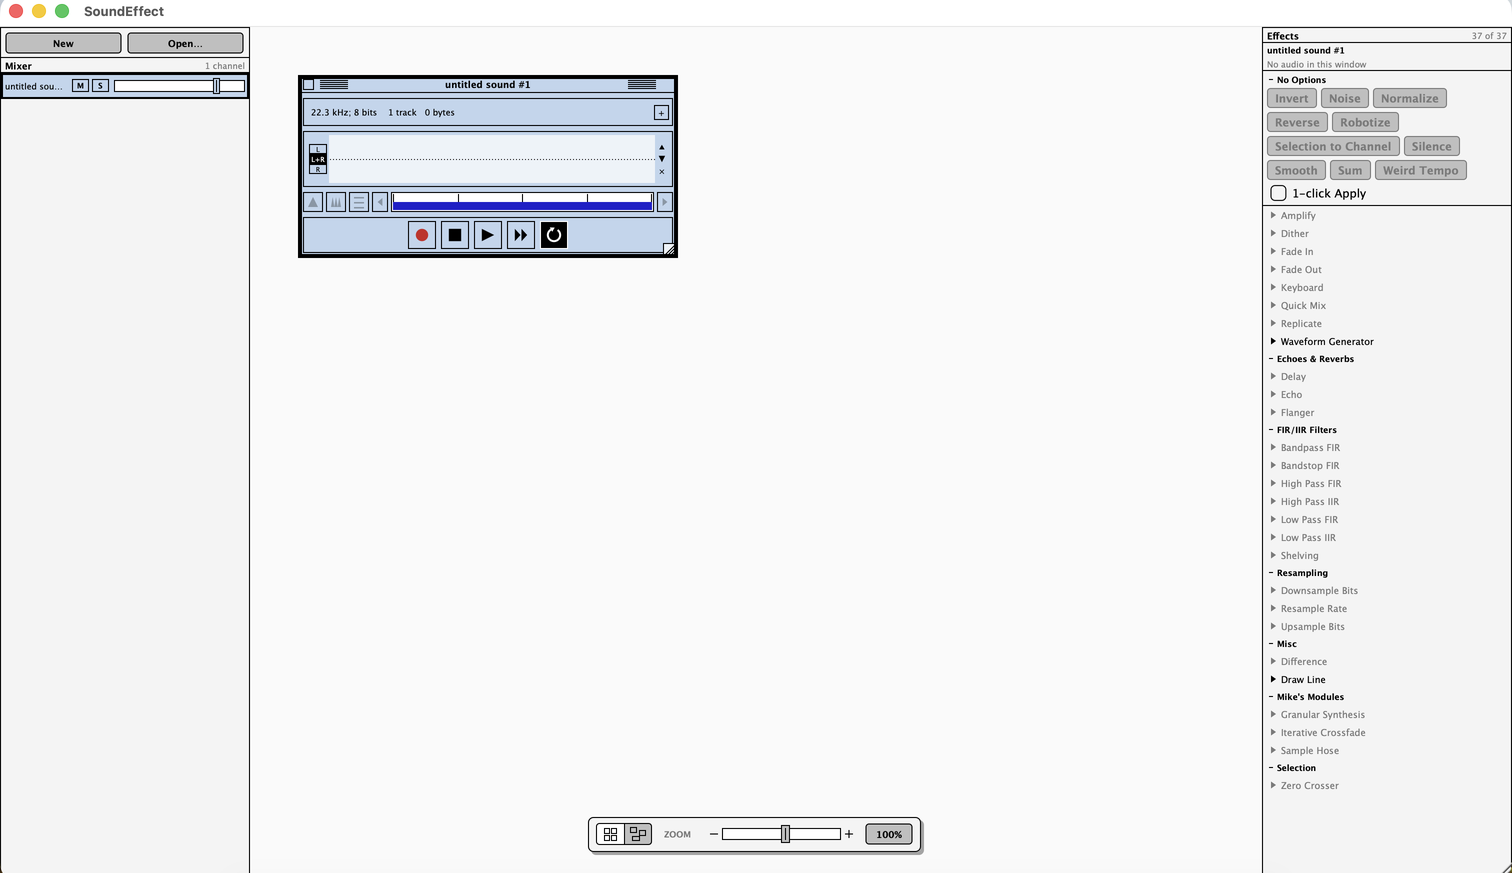
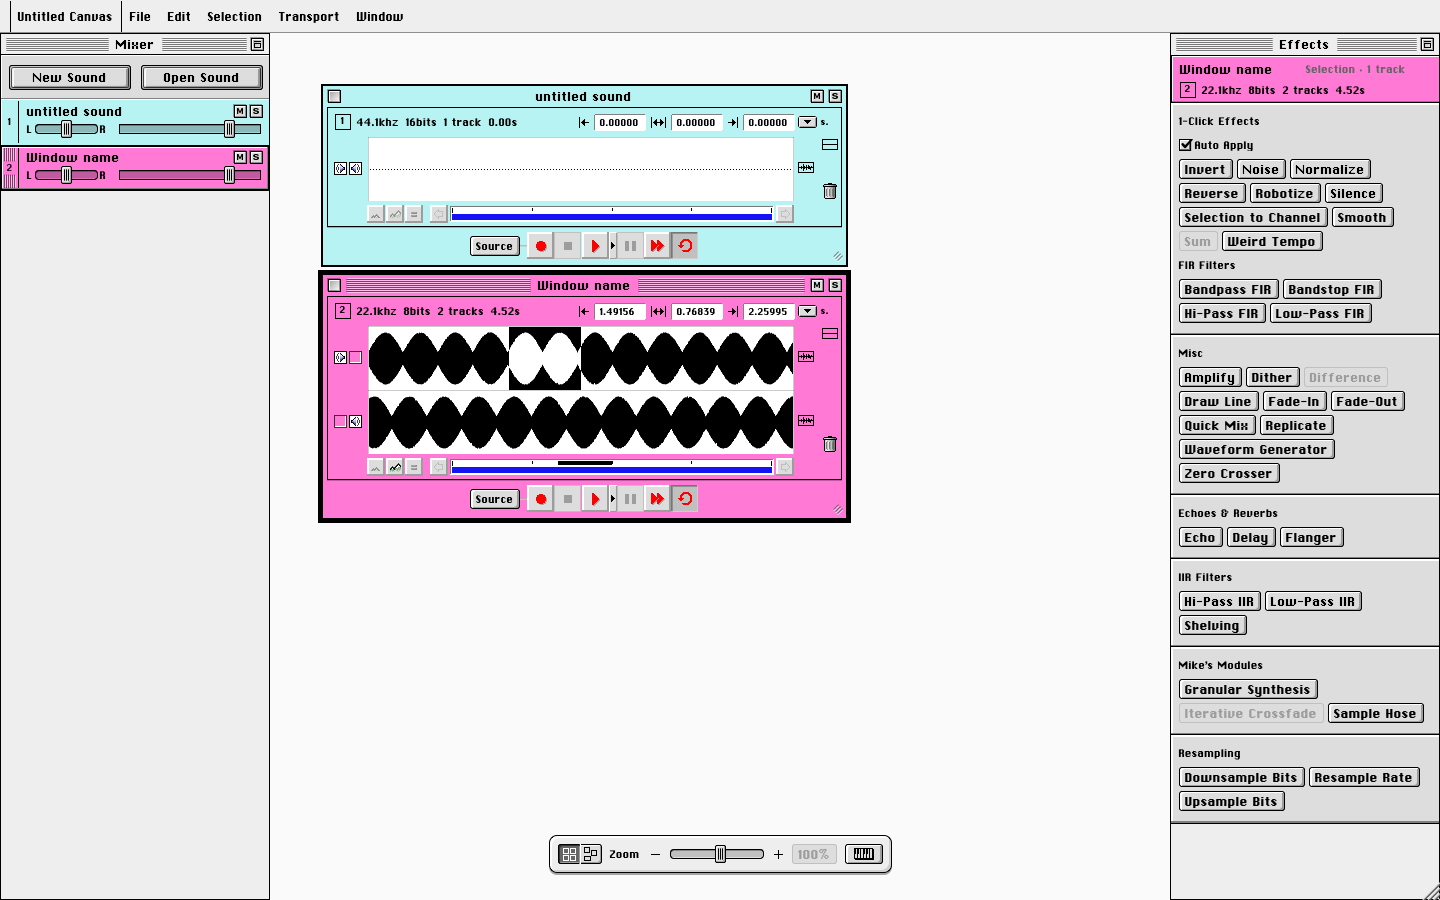
README: describe 0.4.0 — what works, what doesn't, the two settings files; a 0.4.0 screenshot

diff --git a/README.md b/README.md
@@ -77,56 +77,78 @@ xattr -dr com.apple.quarantine /Applications/SoundEffects.app
 
 ## What works today
 
-- **The canvas** — unbounded board, zoom 20–400% (⌘/Ctrl + wheel or pinch), pan
-  (`H`), snap-to-grid columns you can drag windows between, or **Mosaic** to turn
-  the grid off and place them freely.
-- **Open WAV and AIFF** (⌘O). A stereo file arrives as two tracks already routed
-  left and right.
-- **Multiple tracks per window**, each its own buffer with its own length, its own
-  `L` / `L+R` / `R` output routing, and its own loop — so tracks phase against
-  each other, and windows phase against each other. This is the point of the app.
-- **Transport per window** — play/pause (also `Space`), stop, 2× and loop.
-- **The mixer** — one strip per window, with mute, solo, a dB fader and a VU meter
-  sharing one trough on one scale.
-- **37 effects**, ported from the originals and checked against golden vectors
-  generated from the TypeScript reference — Amplify, Echo/Delay, Flanger, FIR and
-  IIR filters, Robotize, Granular Synthesis, Sample Hose, Weird Tempo, Zero
-  Crosser and the rest.
+- **The canvas.** An unbounded board, zoom 20–400% (⌘/Ctrl + wheel, pinch, ⌘0,
+  ⌘1), pan with a right-button drag or `H`, and a **grid** you drag windows
+  between, or a **free** canvas (`G`) to place them anywhere.
+- **The Mac OS 8 look.** Redrawn from a Figma design system and set in a
+  recreated Classic Chicago, with 24 colour themes. Each sound wears one on its
+  window and on its mixer strip.
+- **Multiple tracks per window.** Each track is its own buffer with its own
+  length, its own left/right speakers and its own loop, so tracks phase against
+  each other and windows phase against each other. This is the point of the
+  app. Drag tracks to reorder, add, duplicate (⌥-drag) or trash them.
+- **A transport per window.** Record, stop, pause, play (`Space`), 2× and loop.
+  Each window plays **Forward, Backward or Ping-pong** (`D`, or the strip on the
+  Play button) and switches mid-play without a glitch. A running loop follows the
+  selection as you change it.
+- **Recording.** The **Source** button (⌘⇧R) records from an audio input, from
+  the canvas (the main mix, or one window's own output) or, in a plugin, from
+  the DAW. With nothing selected, a take goes into new tracks; with a selection
+  over one or two tracks, it goes into the selection, as a punch-in or looping.
+  Conversion is Raw (lo-fi, the default) or Clean.
+- **The mixer.** One strip per window, in numbered slots (keys `1`…`0` select a
+  slot). Each strip has a fader with a stereo VU meter, balance, mute and solo,
+  and you drag strips to reorder them.
+- **37 effects** in a panel, ported from the originals and checked against golden
+  vectors generated from the TypeScript reference. They include Amplify,
+  Echo/Delay, Flanger, the FIR and IIR filters, Robotize, Granular Synthesis,
+  Sample Hose, Weird Tempo and Zero Crosser. Settings open in a tray, setups
+  (presets) are saved and recalled, and **Auto-apply** makes the one-click
+  effects instant.
+- **The original's editing.** Cut, copy, paste, duplicate, clear, crop, insert
+  silence, Leave Silence, Shift Sound, Select Exactly, Select Peak, Select Silence
+  and Set Loop, all from the in-app **Edit** and **Selection** menus. The
+  selection's start, length and end are live fields in seconds, ms or samples.
+- **The Keyboard.** A palette that plays the selected window at chromatic pitches
+  (`K`).
+- **Projects.** **Save Canvas** (⌘S) writes a folder holding the `.sefx` file and
+  an `Assets` folder with every track as a WAV. **Export Sound** and **Import
+  Sound** move single sounds between canvases. **Open Sound** (⌘O) reads WAV and
+  AIFF; a stereo file arrives as two tracks routed left and right.
 
 ## What doesn't work yet
 
 Worth knowing before you spend an evening on a patch:
 
-- **There is no Export.** Your work is safe — see Save Canvas above — but
-  it can only be reopened by SoundEffects. Nothing leaves as a WAV or AIFF yet, so
-  recording the output with Loopback/BlackHole is still the only way into another
-  program.
-- **Recording is not wired up.** The red button is there; pressing it opens the
-  audio settings and otherwise does nothing.
-- **There is no undo** — and there never will be. That one is deliberate; see the
-  original's own alert text in the spec.
-- **Saving your work.** **File → "Save Canvas"** (⌘S) writes the whole canvas to a
-  `.sefx` file — every window where you left it, its colour, its tracks and their
-  audio, and the mixer settings — and **"Open Canvas…"** brings it back, as does
-  double-clicking a `.sefx` in the Finder. You don't have to remember to save: quit
-  and the canvas is waiting on the next launch. (It comes back stopped, not
-  playing.)
+- **There is no undo**, and there never will be. That one is deliberate: the
+  menu item is there and always greyed. See the original's own alert text in the
+  spec.
+- **The plugin** (VST3/AU) builds from the same sources but is not released.
+- **The canvas is only saved when you ask, or when you quit.** A crash loses what
+  you did since the last ⌘S.
+- **Not back yet from the original:** the Preferences pages, the level meter,
+  Spectrum, the Chunk List and Play Clipboard.
 
 ## Requirements
 
 macOS 11 Big Sur or later, Apple Silicon or Intel. No installer beyond the drag.
-The only thing it leaves on your disk is
-`~/Library/Application Support/SoundEffects.settings` — your audio device choice,
-and the canvas you had open when you last quit. That file therefore carries your
-audio, and can run to tens of megabytes once you have real samples loaded; it is
-rewritten on every quit. Delete the app and that file and nothing remains.
+It leaves two files on your disk:
+
+- `~/Library/Application Support/SoundEffects.settings` holds your audio device
+  choice and the canvas you had open when you last quit. That file therefore
+  carries your audio and can run to tens of megabytes once you have real samples
+  loaded. It is rewritten on every quit.
+- `~/Library/Application Support/SoundEffects/Preferences.settings` holds the
+  app's preferences: the selection unit, Auto-apply and the effect setups.
+
+Delete the app and those two and nothing remains.
 
 If you ran an earlier build, back when the app was called SoundEffect without the
 s, there is also a `SoundEffect.settings` next to it. The first launch under the
 new name copies it across, so your canvas and audio device come with you; the old
 file is then dead weight and safe to delete.
 
-Audio input/output is picked in **File → Preferences → Audio/MIDI Settings** (⌘,).
+Audio input and output are picked in **File → Audio/Midi Setup** (⌘,).
 
 ---
 
@@ -157,6 +179,10 @@ cmake -B native/build -S native -G Ninja && cmake --build native/build
 
 The same sources also build a **VST3** and an **AU** plugin (`SoundEffects_VST3`,
 `SoundEffects_AU`); only the standalone app is packaged for release today.
+
+The 0.4.0 work, its decisions and its journal are in
+[docs/0.4.0/PLAN.md](docs/0.4.0/PLAN.md); what comes next is in
+[docs/0.4.0/perf-audit-plan.md](docs/0.4.0/perf-audit-plan.md).
 
 ## Repository layout
 
